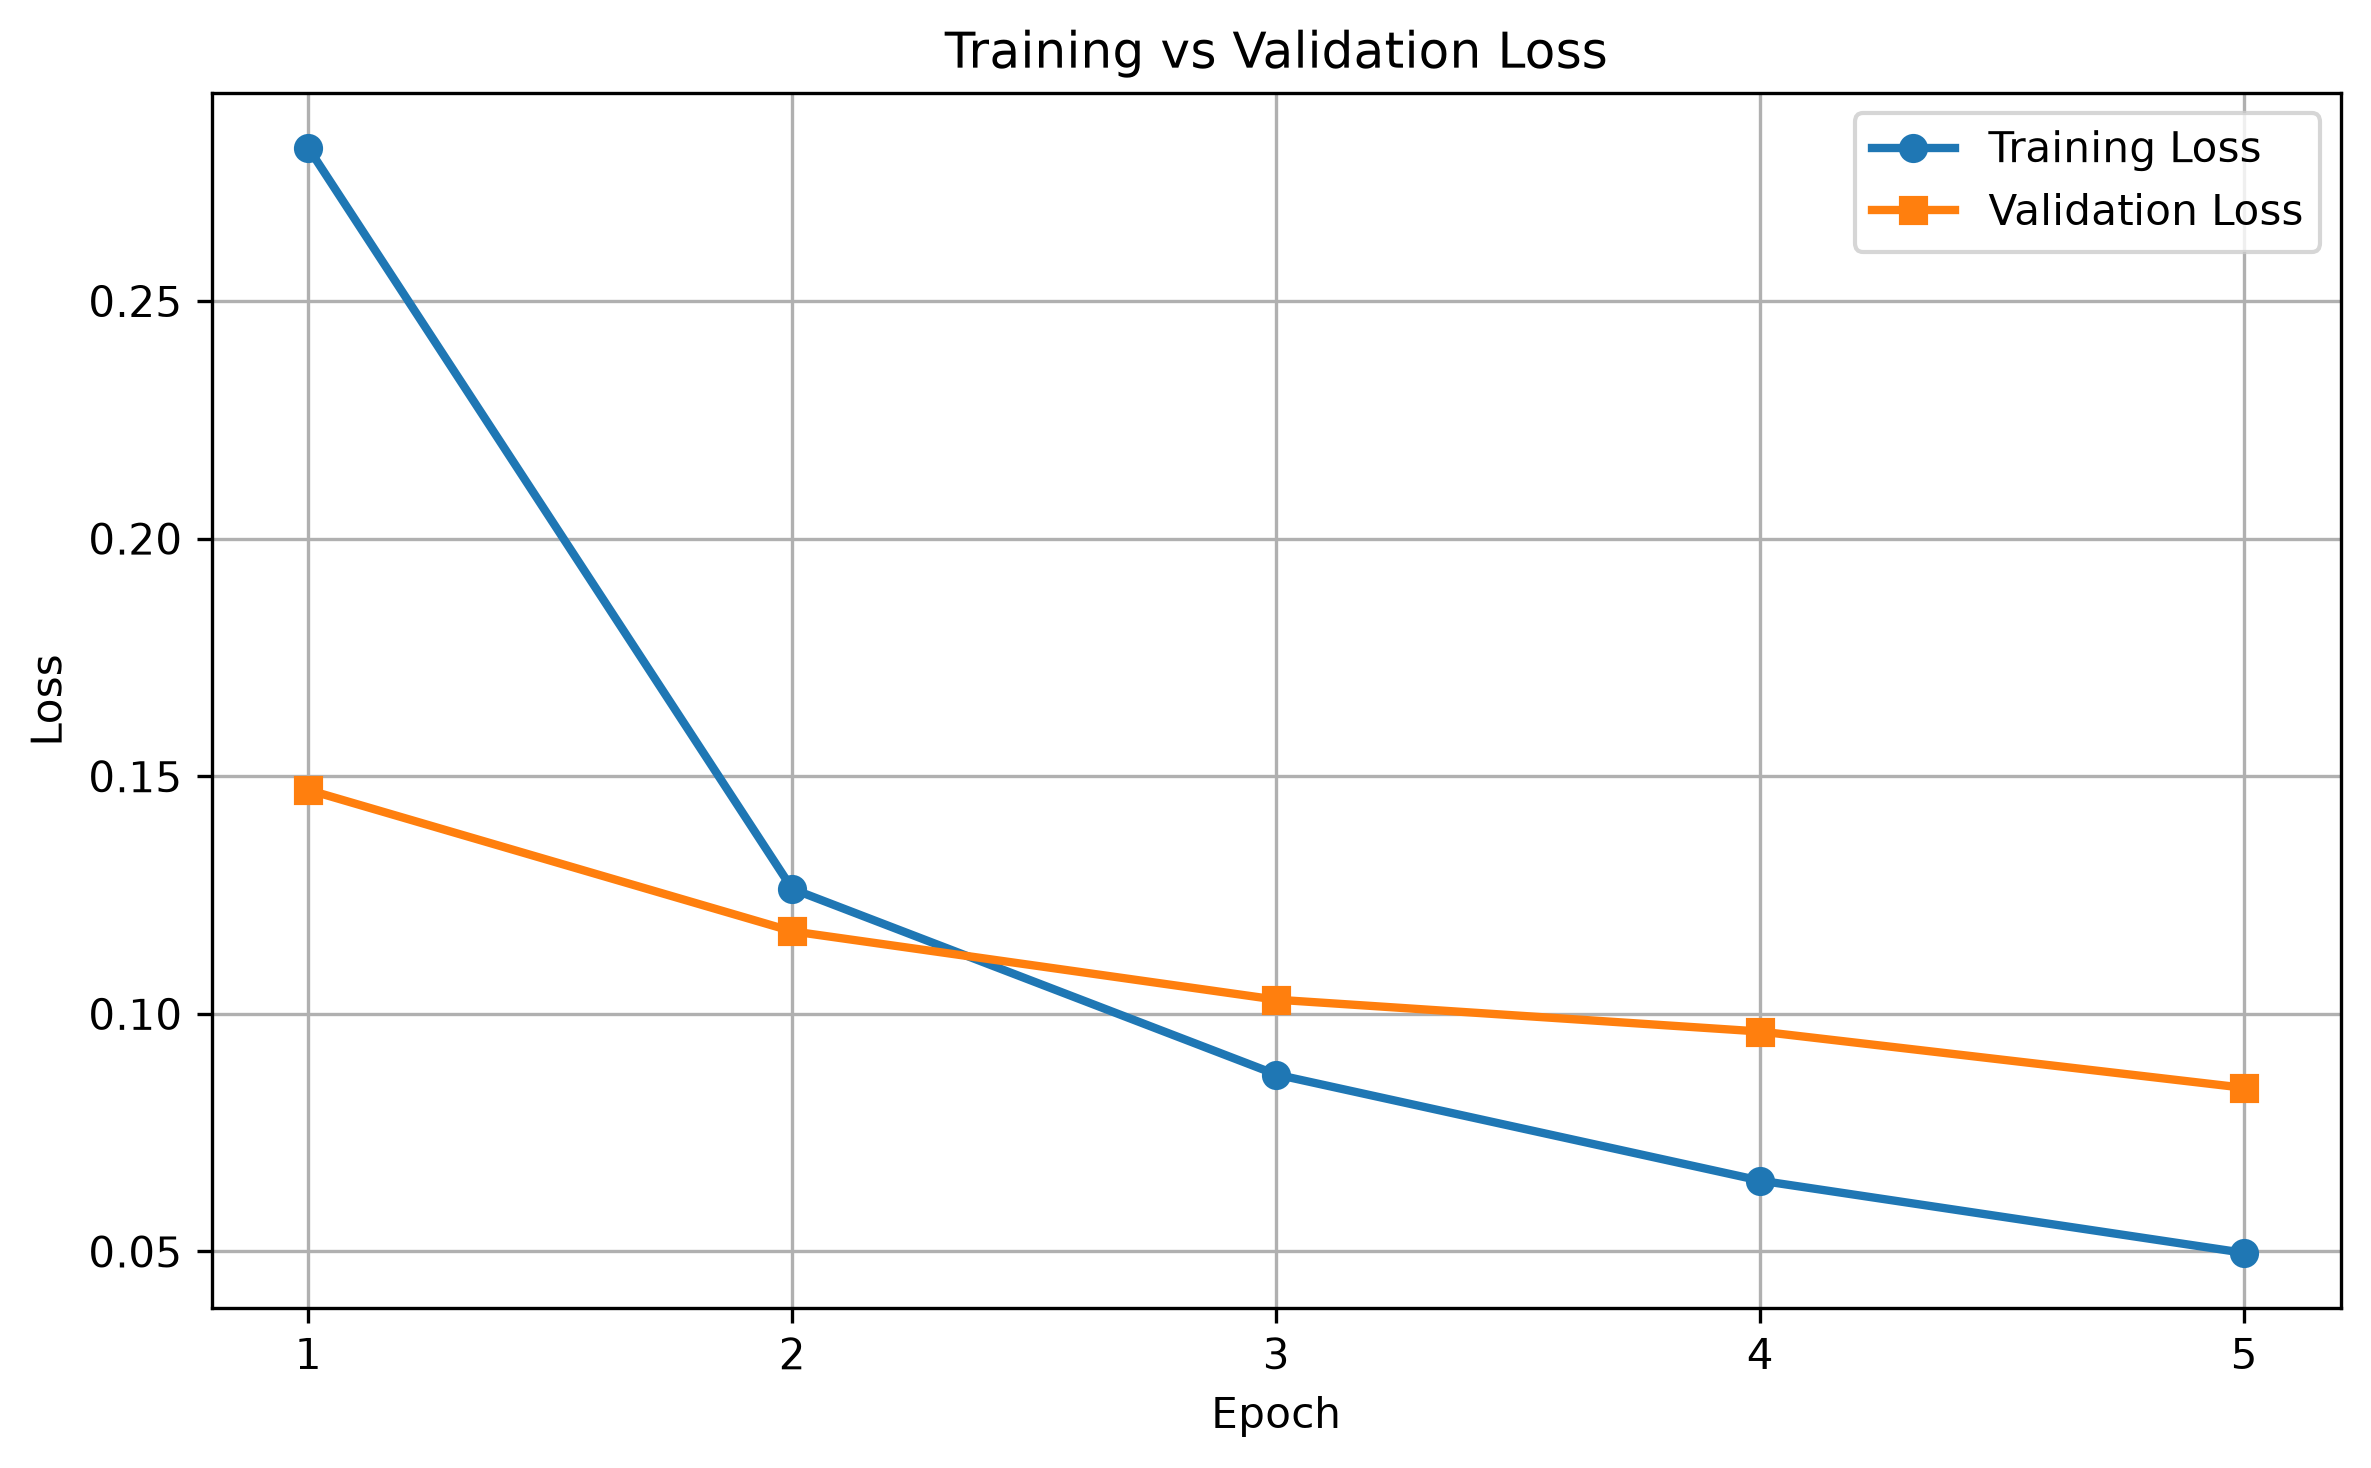
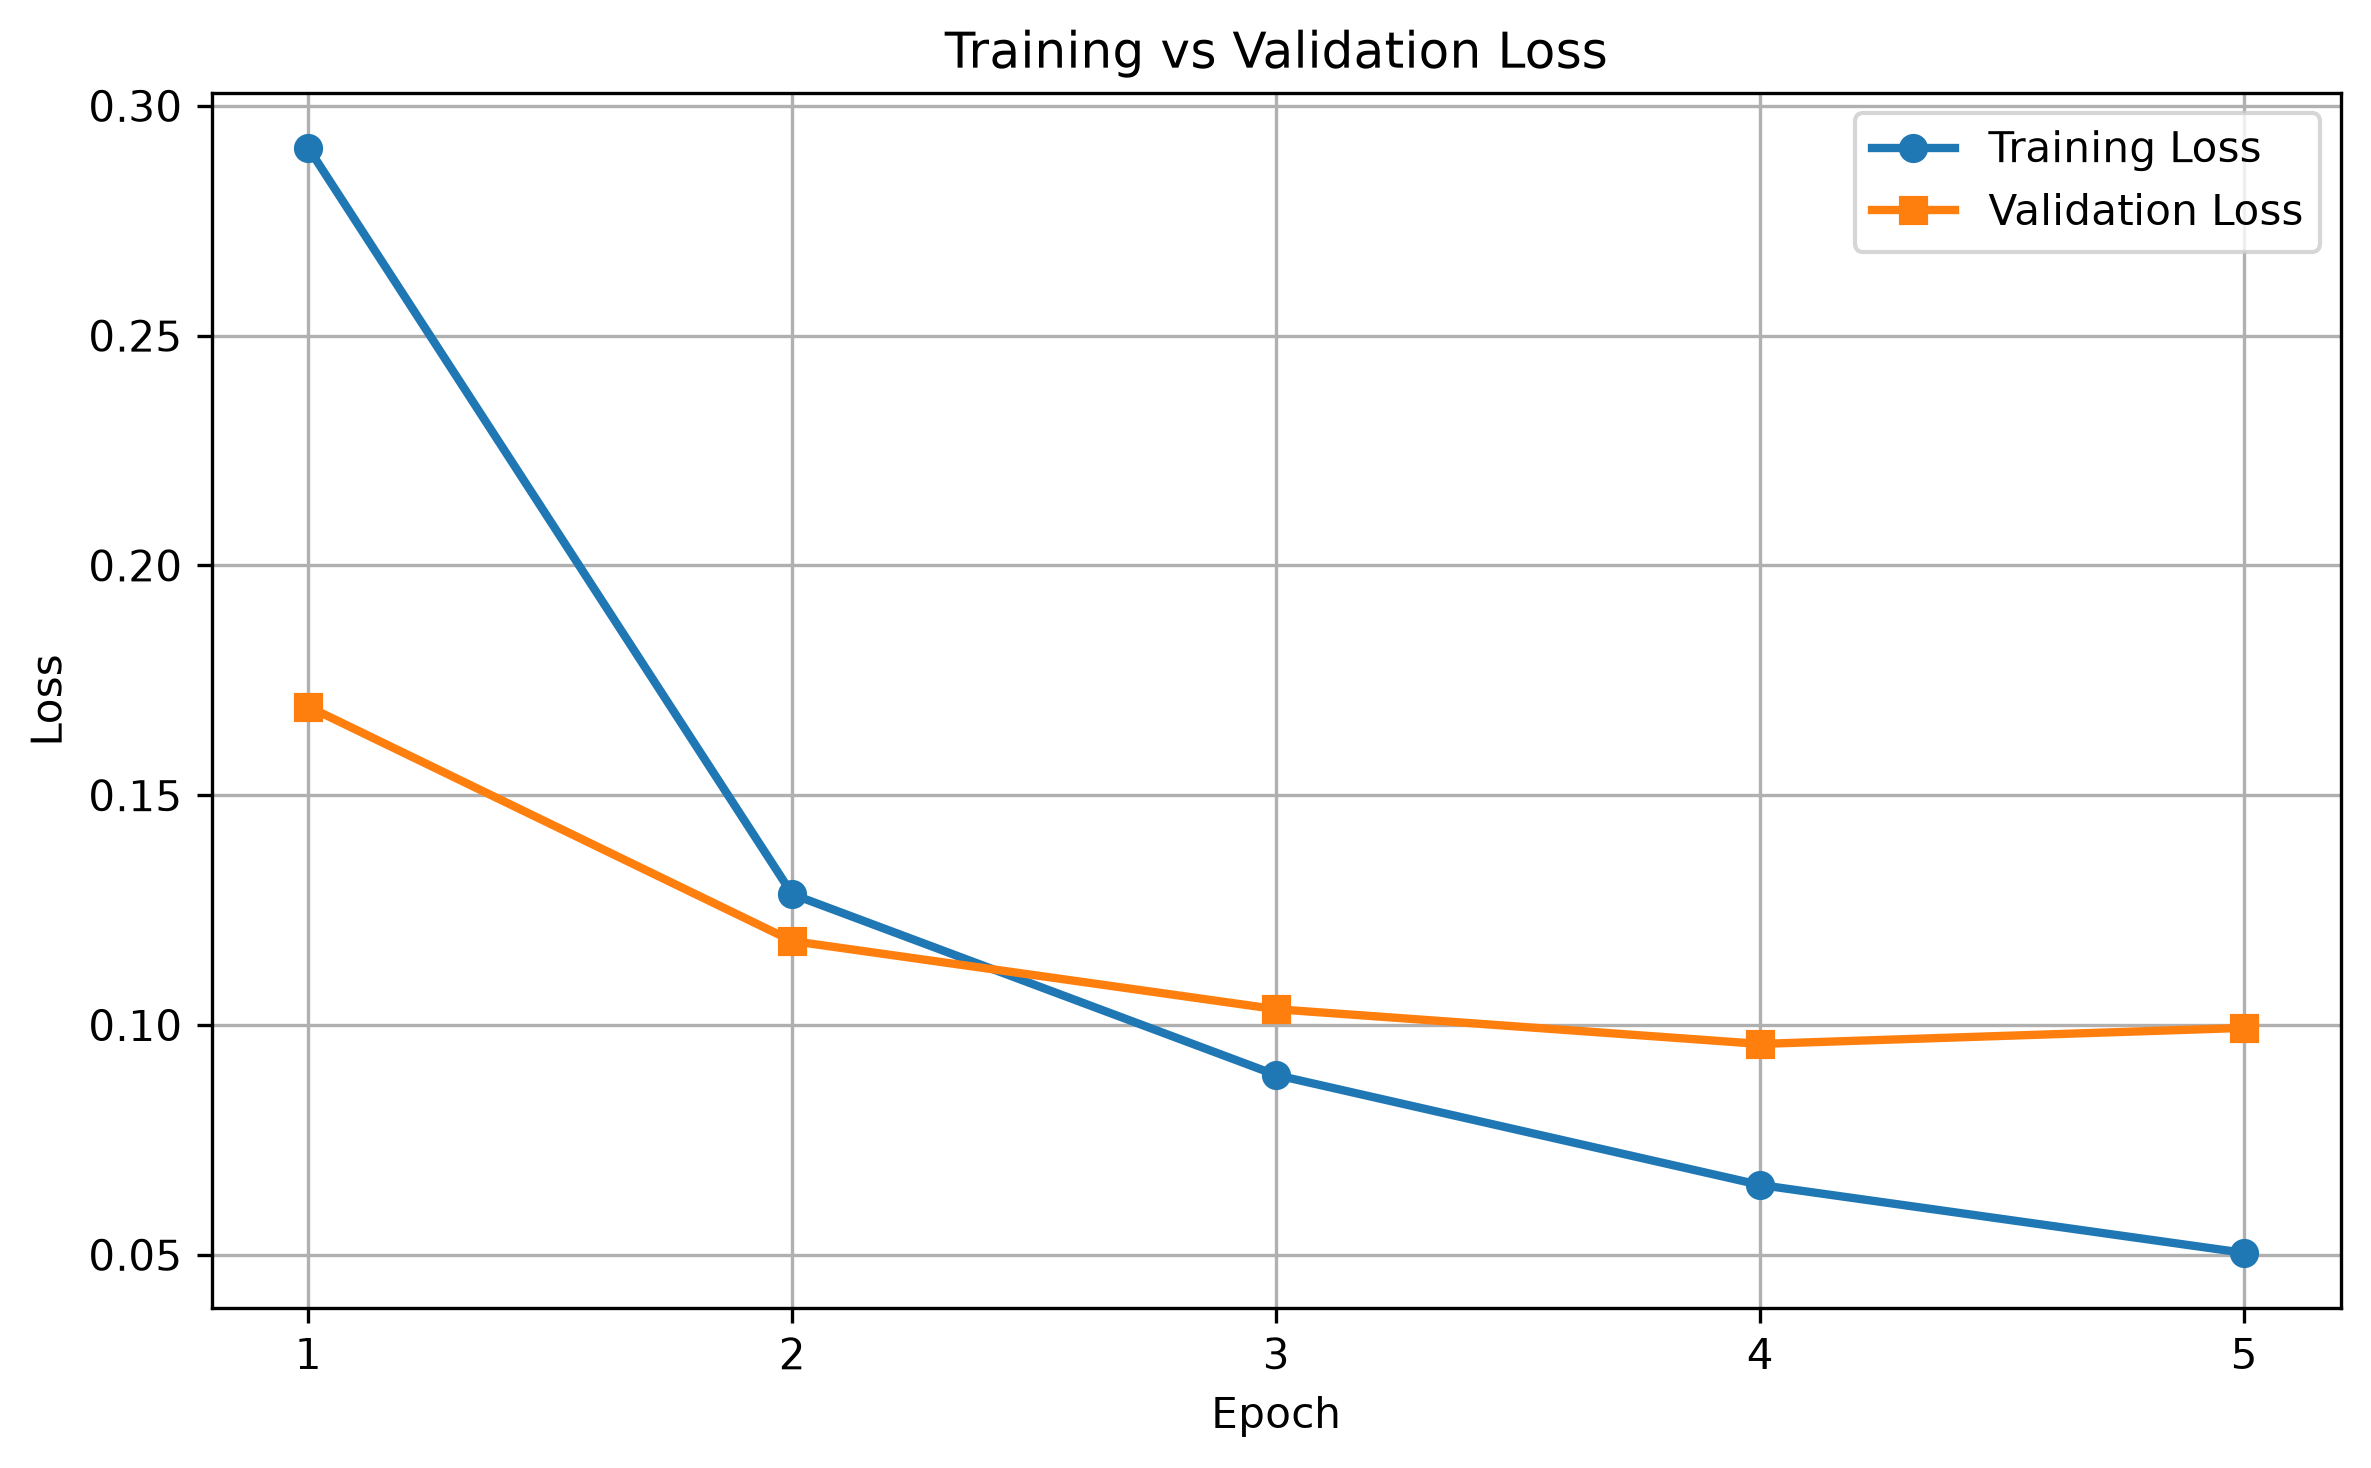
Refractor project structure and Improve project Documentation

diff --git a/predict.py b/predict.py
@@ -5,7 +5,7 @@ import numpy as np
 import tensorflow as tf
 from tensorflow.keras.datasets import mnist
 
-model = tf.keras.models.load_model("model.keras")
+model = tf.keras.models.load_model("models/model.keras")
 
 (_, _), (x_test, y_test) = mnist.load_data()
 x_test = x_test / 255.0

diff --git a/train.py b/train.py
@@ -70,7 +70,7 @@ print(f"Test Loss     : {loss:.4f}")
 
 # Save Trained Model
 
-model.save("model.keras")
+model.save("models/model.keras")
 print("\nModel saved successfully as 'model.keras'")
 
 

diff --git a/README.md b/README.md
@@ -1,9 +1,121 @@
-# MNIST Handwritten Digit Classification
+# Handwritten Digit Classification using Artificial Neural Network (ANN)
 
-A deep learning project built using TensorFlow and Keras to classify handwritten digits (0–9) from the MNIST dataset.
+## Project Overview
 
-## Project Status
+This project implements a Handwritten Digit Classification system using an Artificial Neural Network (ANN) built with TensorFlow and Keras. The model is trained on the MNIST dataset to recognize handwritten digits (0–9).
 
- Project setup in progress.
+---
 
-More updates coming soon.
+## Features
+
+- MNIST dataset preprocessing
+- Image normalization
+- ANN model built using TensorFlow/Keras
+- Model training with validation
+- Model evaluation
+- Model saving and loading
+- Training Accuracy visualization
+- Training Loss visualization
+- Random digit prediction using saved model
+
+---
+
+## Project Structure
+
+```
+mnist-digit-classification-ann/
+
+├── train.py
+├── predict.py
+├── models/
+│   └── model.keras
+├── images/
+│   ├── training_accuracy.png
+│   └── training_loss.png
+├── requirements.txt
+├── README.md
+└── .gitignore
+```
+
+---
+
+## Technologies Used
+
+- Python
+- TensorFlow
+- Keras
+- NumPy
+- Matplotlib
+
+---
+
+## Dataset
+
+MNIST Dataset
+
+- 60,000 Training Images
+- 10,000 Test Images
+- Image Size: 28 × 28 pixels
+- Classes: 10 (Digits 0–9)
+
+---
+
+## Model Architecture
+
+- Input Layer (28×28)
+- Flatten Layer
+- Dense Layer (128 ReLU)
+- Output Layer (10 Softmax)
+
+---
+
+## Training Configuration
+
+- Optimizer: Adam
+- Loss Function: Categorical Crossentropy
+- Epochs: 5
+- Batch Size: 32
+- Validation Split: 20%
+
+---
+
+## Results
+
+Test Accuracy: **97.6%**
+
+---
+
+## Training Accuracy
+
+![Accuracy](images/training_accuracy.png)
+
+---
+
+## Training Loss
+
+![Loss](images/training_loss.png)
+
+---
+
+## Run Project
+
+Train Model
+
+```bash
+python train.py
+```
+
+Predict Digit
+
+```bash
+python predict.py
+```
+
+---
+
+## Future Improvements
+
+- CNN-based digit classifier
+- Streamlit web application
+- Custom handwritten image prediction
+- Hyperparameter tuning